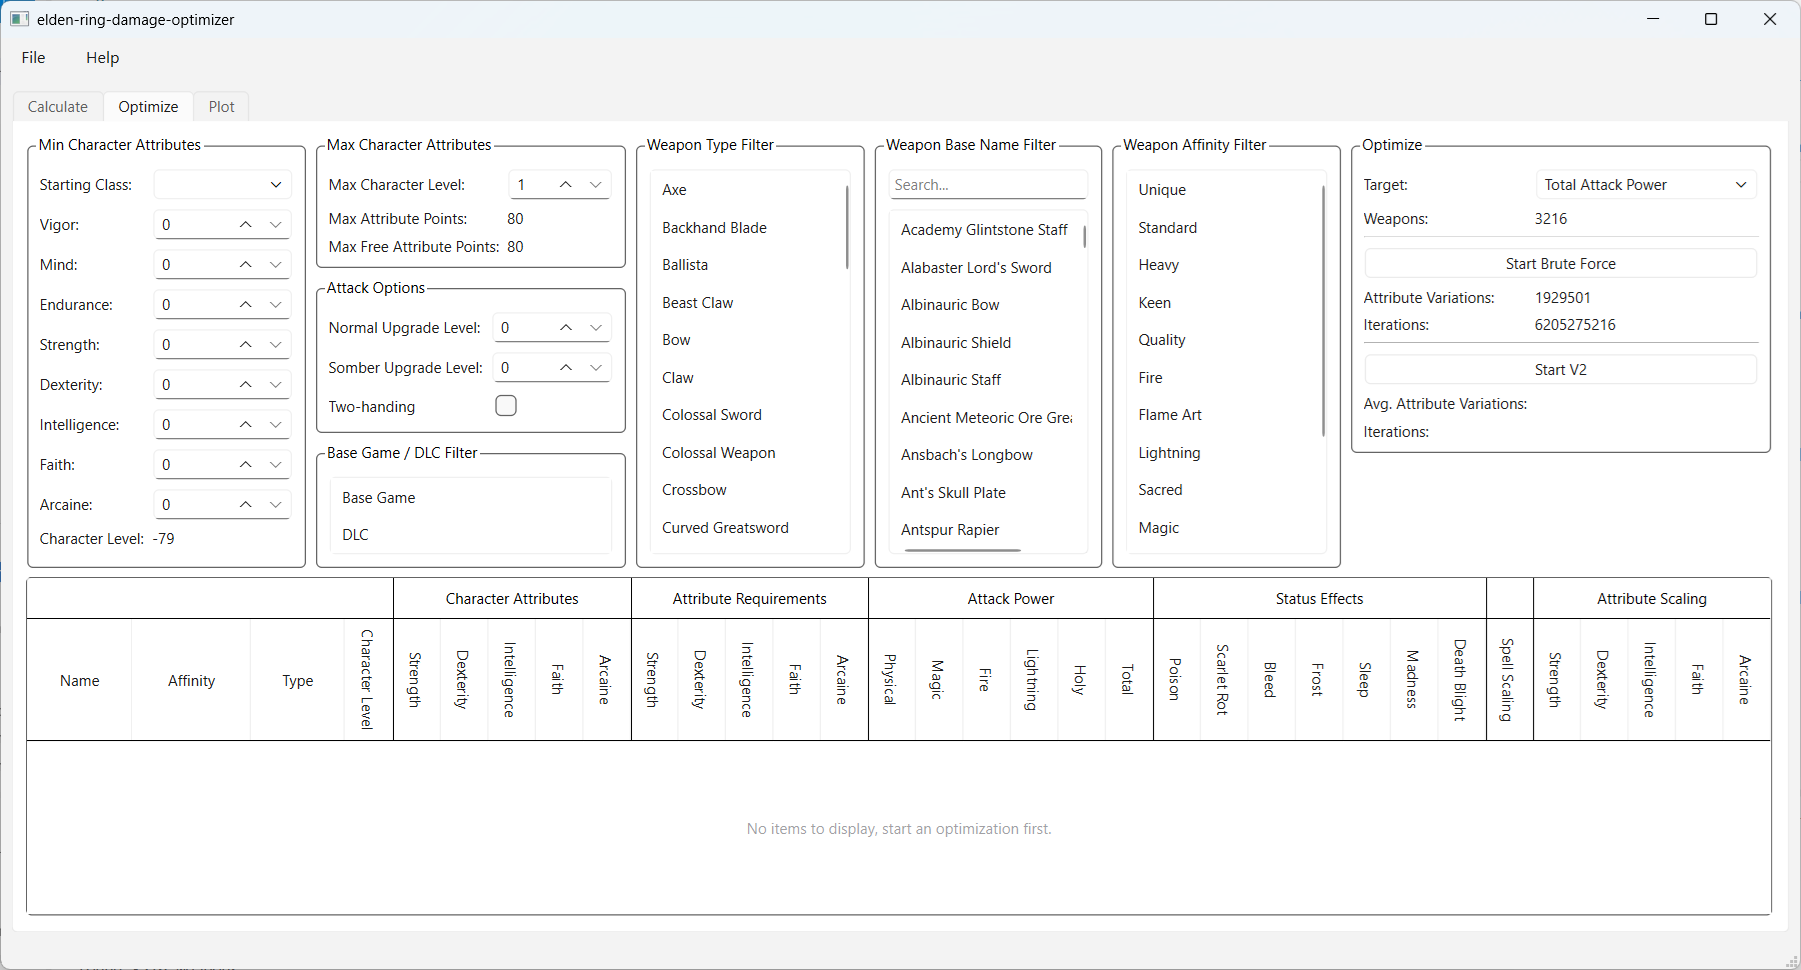
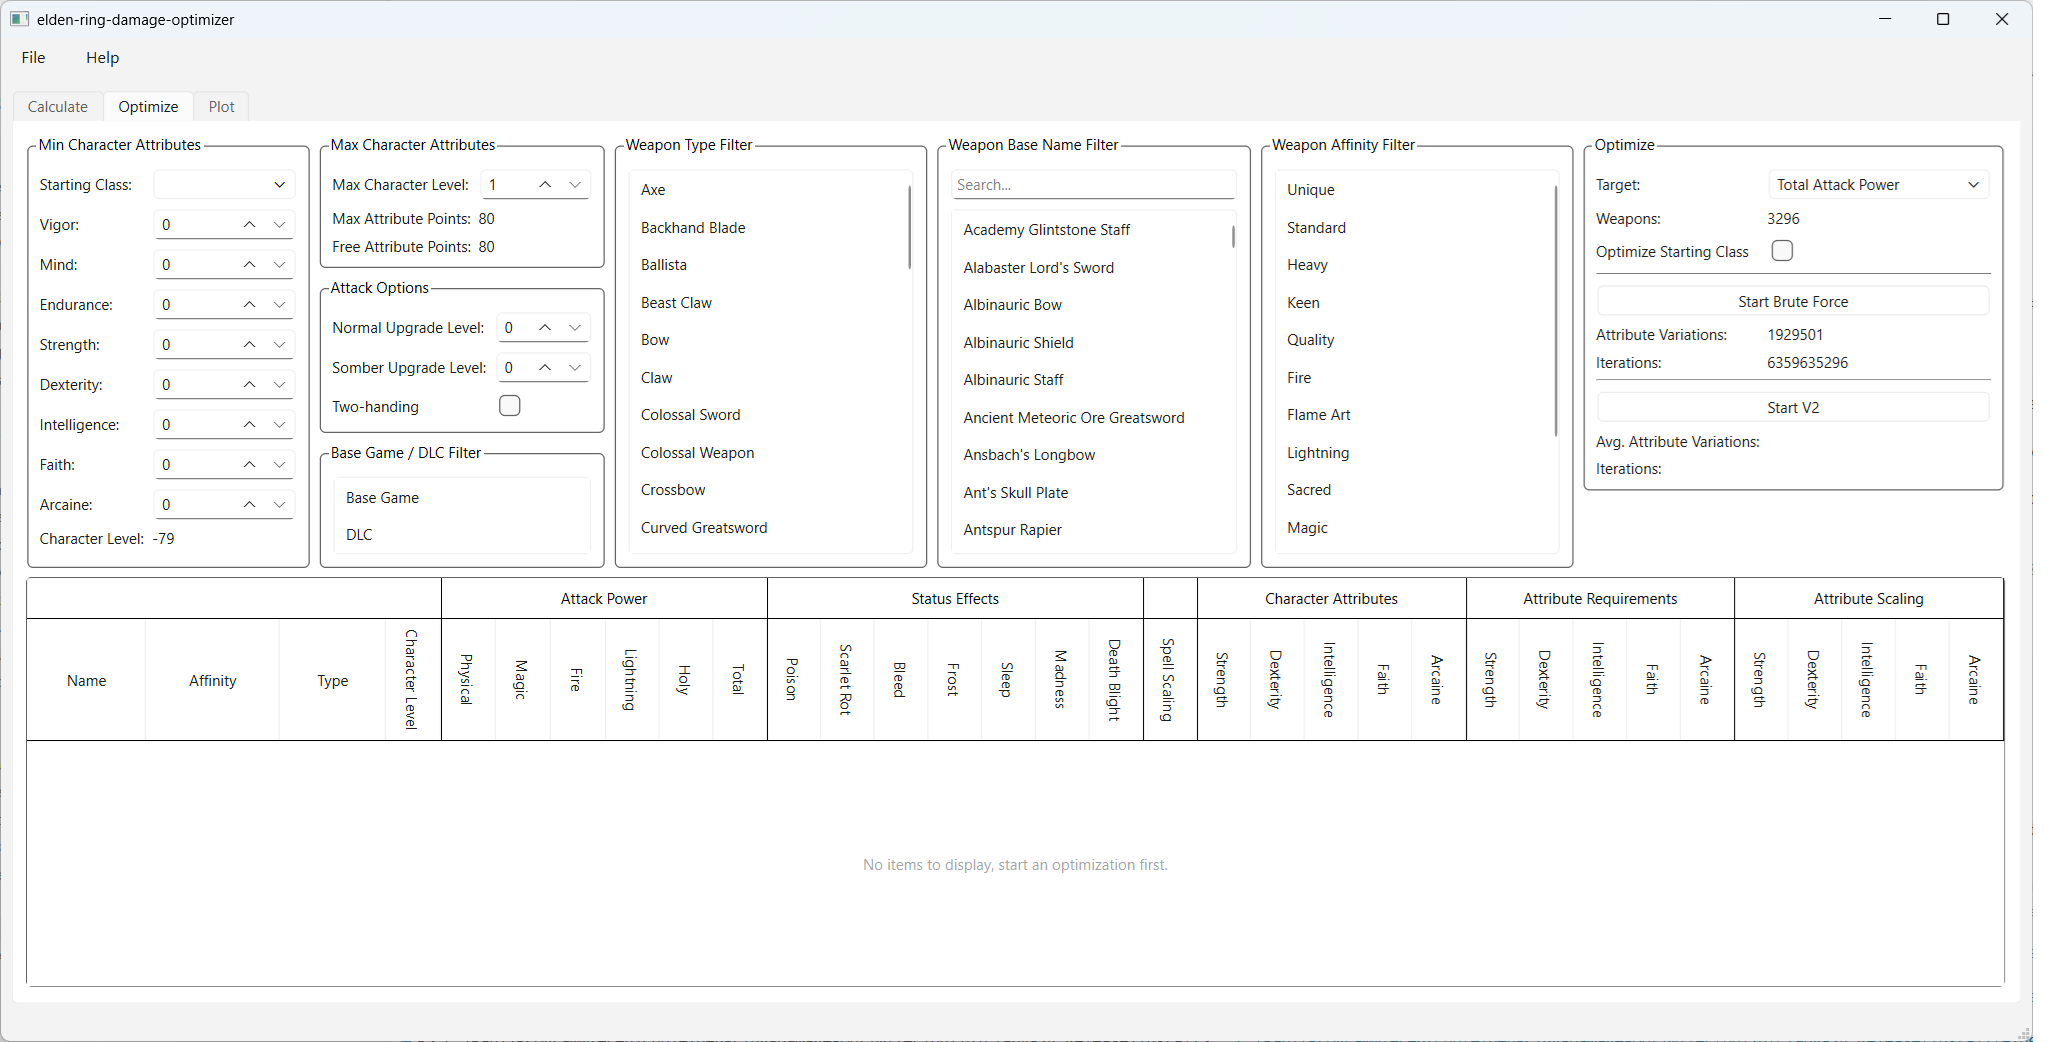
update readme to explain starting class optimization

diff --git a/README.md b/README.md
@@ -19,18 +19,19 @@ The result is displayed in the lower half. The table can be sorted by clicking o
 ![optimize tab image](images/optimize.png)
 This tab finds the optimal character attribute distribution for given constraints.
 
-The constraints (i.e. minimum character attributes, maximum character level, attack options) can be adjusted in the upper half. Again, there are also filters to filter the result.
+The constraints (i.e. minimum character attributes, maximum character level, attack options) can be adjusted in the upper half. There are filters to filter which weapons to consider during optimization, narrowing down the weapon pool can greatly reduce computing time.
 
 The optimization is controlled in the top right section:
 - The stat to optimize for is chosen with the *Target* dropdown.
-- The *Brute Force* algorithm is pretty simple: It tries every attribute variation (satisfying the provided constraints) with every weapon (according to the filter options) and displays the best result.
-- The *V2* algorithm takes only the scaling attributes of each weapon into account. This reduces the number of attribute variations and therefor computing time by orders of magnitude.
+- If the *Optimize Starting Class* checkbox is enabled the optimized character attributes are guaranteed to be 'realizable' with at least one starting class. This makes it easy to choose the optimal starting class for provided constraints. The optimizer implements this by 'merging' the provided minimum character attributes with each starting class attributes and then running the optimization for each of these merged/adjusted minimum character attributes in one go.
+- The *Brute Force* algorithm is pretty simple: It tries every attribute variation (satisfying the provided constraints) with every weapon (according to the filter options) and displays the best results. *V2* has made this algorithm more or less obsolete, it is kept for testing and result verification.
+- The *V2* algorithm considers only the scaling attributes of each weapon. This reduces the number of attribute variations and therefor computing time by orders of magnitude.
 - The *Attribute Variations* fields show how many attack ratings per weapon the algorithm has to calculate.
 - The *Iterations* fields are a good indicator for how computationally expensive the optimization will be. It displays the total number of attack ratings the algorithm has to calculate.
 
 Note: For *Brute Force* a *Max Character Level* of $168$ and all *Min Character Attributes* equal to $0$ results in $59.896.875$ attribute variations and $192.628.350.000$ iterations (the highest possible). For *V2* the same setup results in only ~$354.168$ attribute variations and $1.139.007.301$ iterations.
 
-The result is displayed in a table in the lower half. It is functionally identical to the *Calculate* result table.
+The results are displayed in the table in the lower half. It is functionally identical to the *Calculate* result table.
 
 ### Plot
 ![plot tab image](images/plot.png)
